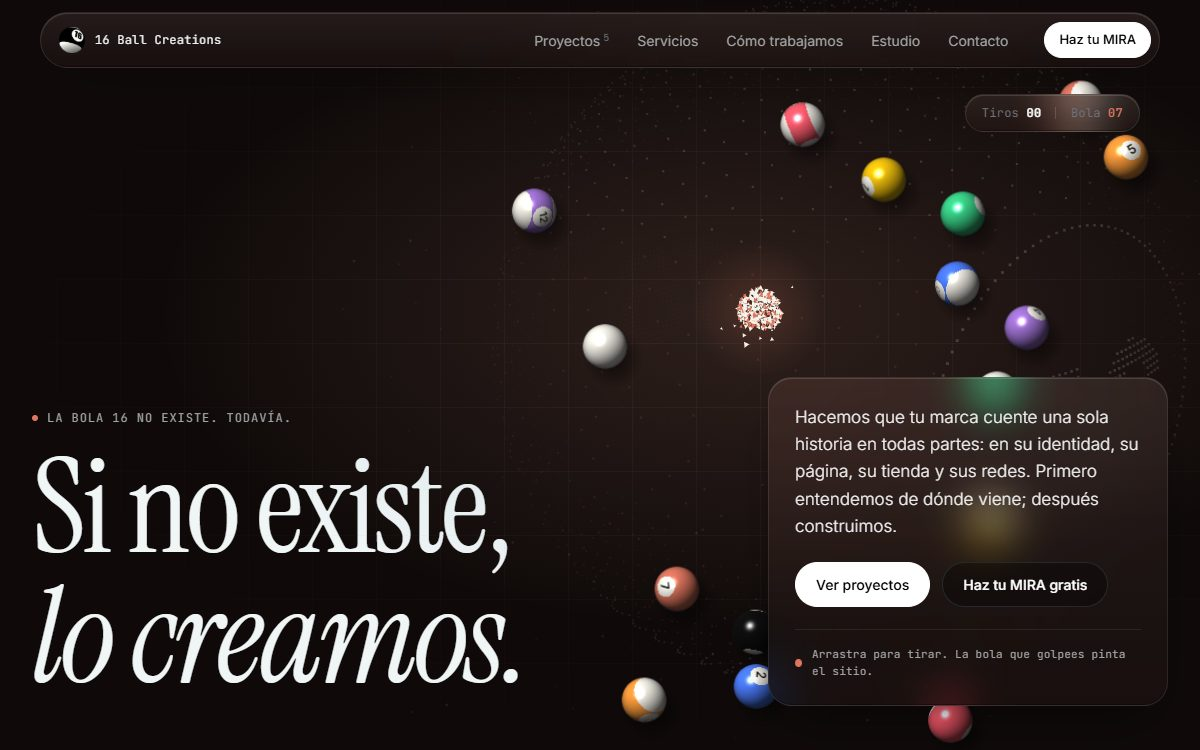
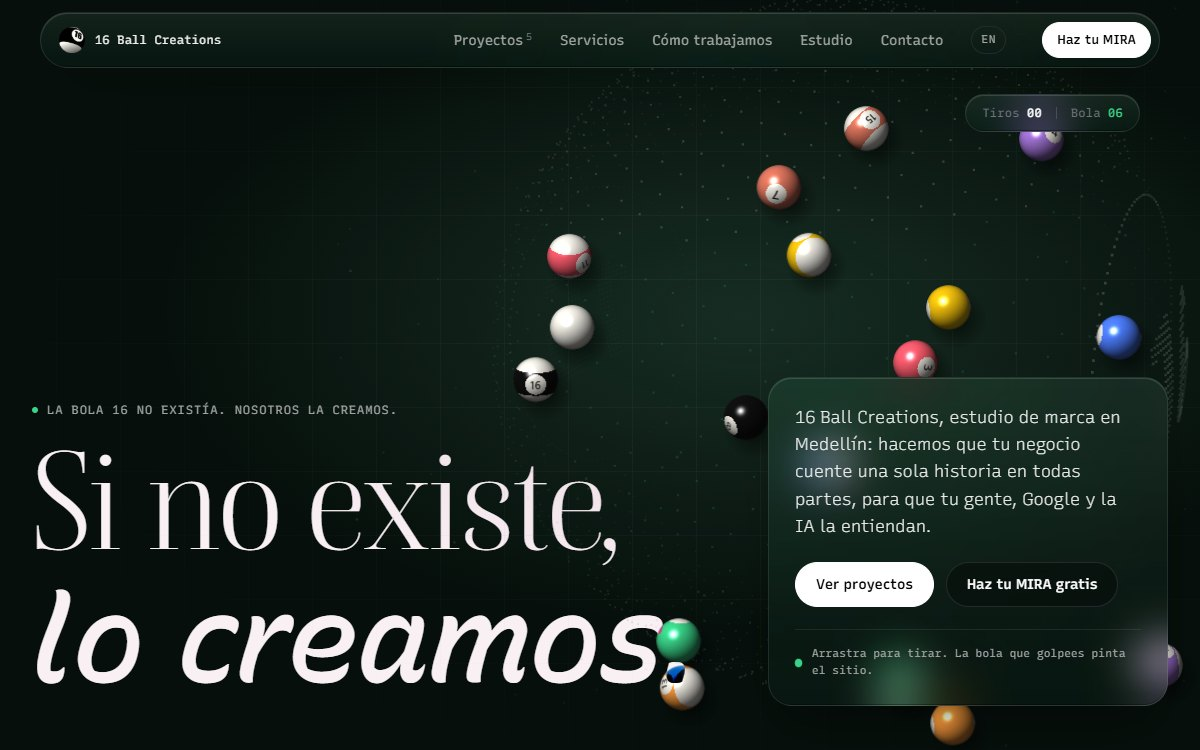
Tarjeta de 16 Ball Creations: captura nueva de la portada con las tipografías actuales

diff --git a/en/services/business-systems/index.html b/en/services/business-systems/index.html
@@ -278,7 +278,7 @@
       </div>
       <ol class="work">
         <li class="card tile">
-          <div class="card-media"><img src="/assets/img/projects/16-ball-creations.jpg?v=2" alt="Home page of the 16 Ball Creations website: a pool table with the balls in play and the headline «Si no existe, lo creamos»" width="1200" height="750" loading="lazy"><span class="card-n">01</span></div>
+          <div class="card-media"><img src="/assets/img/projects/16-ball-creations.jpg?v=3" alt="Home page of the 16 Ball Creations website: a pool table with the balls in play and the headline «Si no existe, lo creamos»" width="1200" height="750" loading="lazy"><span class="card-n">01</span></div>
           <div class="card-body">
             <h3>16 Ball Creations</h3>
             <p>We ran our own process on ourselves: we went back to the story of the missing ball, put the brand in order and carried it into a new website, a guide for our documents and our own panel for every MIRA and every call.</p>

diff --git a/en/services/brand-identity/index.html b/en/services/brand-identity/index.html
@@ -296,7 +296,7 @@
           </div>
         </li>
         <li class="card tile">
-          <div class="card-media"><img src="/assets/img/projects/16-ball-creations.jpg?v=2" alt="Home page of the 16 Ball Creations website: a pool table with the balls in play and the headline «Si no existe, lo creamos»" width="1200" height="750" loading="lazy"><span class="card-n">03</span></div>
+          <div class="card-media"><img src="/assets/img/projects/16-ball-creations.jpg?v=3" alt="Home page of the 16 Ball Creations website: a pool table with the balls in play and the headline «Si no existe, lo creamos»" width="1200" height="750" loading="lazy"><span class="card-n">03</span></div>
           <div class="card-body">
             <h3>16 Ball Creations</h3>
             <p>We ran our own process on ourselves: we went back to the story of the missing ball, put the brand in order and carried it into a new website, a guide for our documents and our own panel for every MIRA and every call.</p>

diff --git a/en/services/websites/index.html b/en/services/websites/index.html
@@ -337,7 +337,7 @@
           </div>
         </li>
         <li class="card tile">
-          <div class="card-media"><img src="/assets/img/projects/16-ball-creations.jpg?v=2" alt="Home page of the 16 Ball Creations website: a pool table with the balls in play and the headline «Si no existe, lo creamos»" width="1200" height="750" loading="lazy"><span class="card-n">04</span></div>
+          <div class="card-media"><img src="/assets/img/projects/16-ball-creations.jpg?v=3" alt="Home page of the 16 Ball Creations website: a pool table with the balls in play and the headline «Si no existe, lo creamos»" width="1200" height="750" loading="lazy"><span class="card-n">04</span></div>
           <div class="card-body">
             <h3>16 Ball Creations</h3>
             <p>We ran our own process on ourselves: we went back to the story of the missing ball, put the brand in order and carried it into a new website, a guide for our documents and our own panel for every MIRA and every call.</p>

diff --git a/servicios/sistemas-para-tu-negocio/index.html b/servicios/sistemas-para-tu-negocio/index.html
@@ -278,7 +278,7 @@
       </div>
       <ol class="work">
         <li class="card tile">
-          <div class="card-media"><img src="/assets/img/projects/16-ball-creations.jpg?v=2" alt="Portada del sitio de 16 Ball Creations: una mesa de pool con las bolas en juego y el titular «Si no existe, lo creamos»" width="1200" height="750" loading="lazy"><span class="card-n">01</span></div>
+          <div class="card-media"><img src="/assets/img/projects/16-ball-creations.jpg?v=3" alt="Portada del sitio de 16 Ball Creations: una mesa de pool con las bolas en juego y el titular «Si no existe, lo creamos»" width="1200" height="750" loading="lazy"><span class="card-n">01</span></div>
           <div class="card-body">
             <h3>16 Ball Creations</h3>
             <p>Nos aplicamos nuestro propio proceso: volvimos a la historia de la bola que falta, ordenamos la marca y la llevamos a un sitio nuevo, una guía para nuestros documentos y un panel propio para cada MIRA y cada llamada.</p>

diff --git a/servicios/identidad-de-marca/index.html b/servicios/identidad-de-marca/index.html
@@ -296,7 +296,7 @@
           </div>
         </li>
         <li class="card tile">
-          <div class="card-media"><img src="/assets/img/projects/16-ball-creations.jpg?v=2" alt="Portada del sitio de 16 Ball Creations: una mesa de pool con las bolas en juego y el titular «Si no existe, lo creamos»" width="1200" height="750" loading="lazy"><span class="card-n">03</span></div>
+          <div class="card-media"><img src="/assets/img/projects/16-ball-creations.jpg?v=3" alt="Portada del sitio de 16 Ball Creations: una mesa de pool con las bolas en juego y el titular «Si no existe, lo creamos»" width="1200" height="750" loading="lazy"><span class="card-n">03</span></div>
           <div class="card-body">
             <h3>16 Ball Creations</h3>
             <p>Nos aplicamos nuestro propio proceso: volvimos a la historia de la bola que falta, ordenamos la marca y la llevamos a un sitio nuevo, una guía para nuestros documentos y un panel propio para cada MIRA y cada llamada.</p>

diff --git a/servicios/paginas-web/index.html b/servicios/paginas-web/index.html
@@ -337,7 +337,7 @@
           </div>
         </li>
         <li class="card tile">
-          <div class="card-media"><img src="/assets/img/projects/16-ball-creations.jpg?v=2" alt="Portada del sitio de 16 Ball Creations: una mesa de pool con las bolas en juego y el titular «Si no existe, lo creamos»" width="1200" height="750" loading="lazy"><span class="card-n">04</span></div>
+          <div class="card-media"><img src="/assets/img/projects/16-ball-creations.jpg?v=3" alt="Portada del sitio de 16 Ball Creations: una mesa de pool con las bolas en juego y el titular «Si no existe, lo creamos»" width="1200" height="750" loading="lazy"><span class="card-n">04</span></div>
           <div class="card-body">
             <h3>16 Ball Creations</h3>
             <p>Nos aplicamos nuestro propio proceso: volvimos a la historia de la bola que falta, ordenamos la marca y la llevamos a un sitio nuevo, una guía para nuestros documentos y un panel propio para cada MIRA y cada llamada.</p>

diff --git a/assets/js/projects.js b/assets/js/projects.js
@@ -80,7 +80,7 @@ window.PROJECTS = [
     },
     summary: "El relanzamiento de nuestra propia marca. Volvimos a su origen, la bola dieciséis que no existe, y desde ahí lo ordenamos todo: el sitio nuevo, la MIRA como primer paso, una guía para que cada documento que enviamos se vea y suene igual, y un panel privado donde llevamos cada MIRA, cada llamada y cada autorización.",
     tags: ["Relanzamiento de marca", "Sitio web", "Guía de documentos", "Sistema propio"],
-    image: "assets/img/projects/16-ball-creations.jpg?v=2",
+    image: "assets/img/projects/16-ball-creations.jpg?v=3",
     alt: "Portada del sitio de 16 Ball Creations: una mesa de pool con las bolas en juego y el titular «Si no existe, lo creamos»",
     links: []
   },

diff --git a/en/index.html b/en/index.html
@@ -647,7 +647,7 @@
   </div>
 </footer>
 
-<script src="/assets/js/projects.js?v=19"></script>
+<script src="/assets/js/projects.js?v=20"></script>
 <script src="/assets/js/servicios.js?v=2"></script>
 <script src="/assets/js/v4.js?v=5"></script>
 <script src="/assets/js/site.js?v=7" defer></script>

diff --git a/index.html b/index.html
@@ -664,7 +664,7 @@
   </div>
 </footer>
 
-<script src="/assets/js/projects.js?v=19"></script>
+<script src="/assets/js/projects.js?v=20"></script>
 <script src="/assets/js/servicios.js?v=2"></script>
 <script src="/assets/js/v4.js?v=5"></script>
 <script src="/assets/js/site.js?v=7" defer></script>
